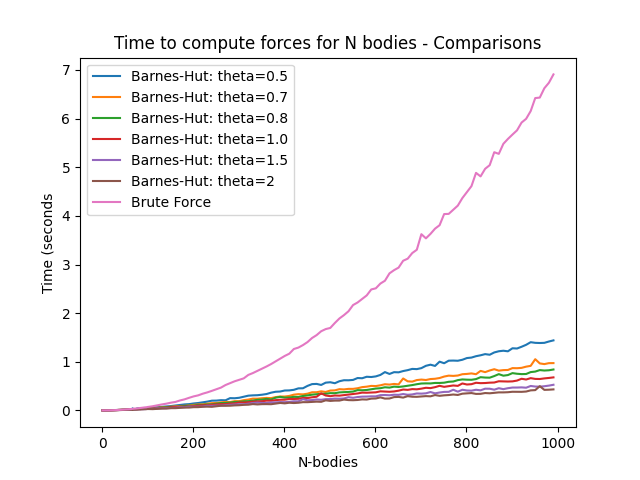
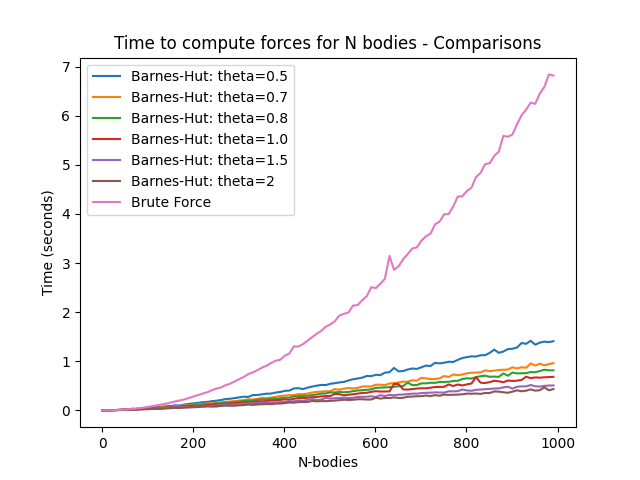
refactor utils

diff --git a/src/utils.py b/src/utils.py
@@ -159,7 +159,7 @@ def comparison(nums, dir, thetas, r0, m0, L, epsilon):
 
     plt.plot(nums, bf, label='Brute Force')
     plt.xlabel("N-bodies")
-    plt.ylabel("Time (seconds")
+    plt.ylabel("Time (seconds)")
     plt.title("Time to compute forces for N bodies - Comparisons")
     plt.legend()
     plt.savefig(dir+'Comparison_time.png')
